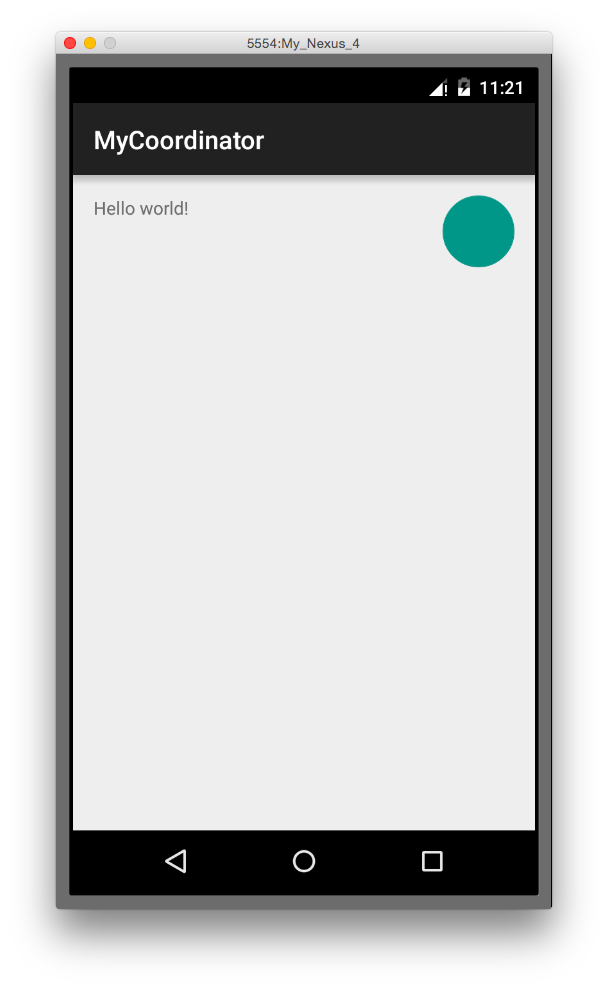
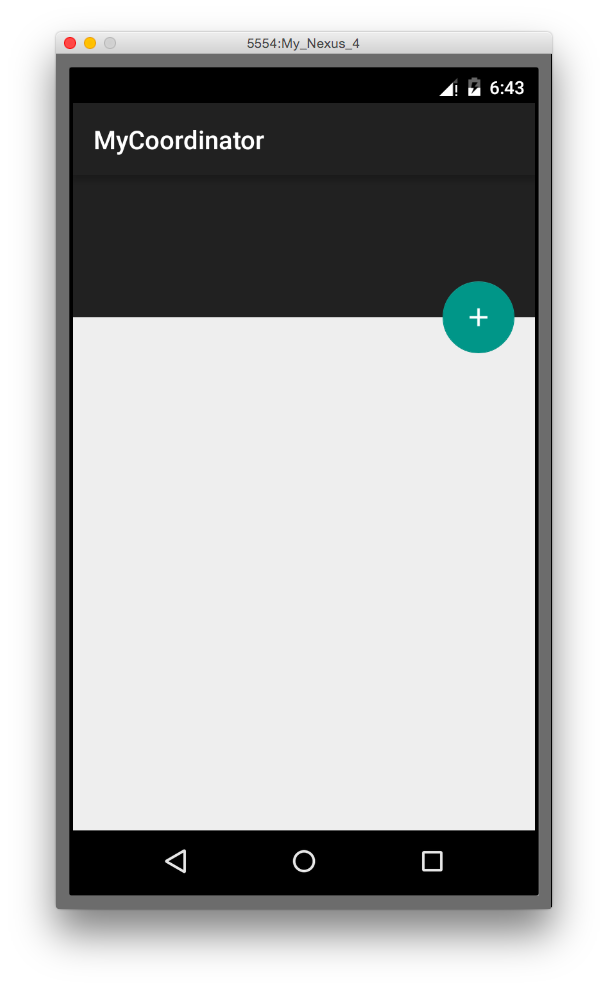
Change layout to CoordinatorLayout > AppBarLayout > CollapsingToolbarLayout

Changed region(s): [[0.0938, 0.1517, 0.9062, 0.364], [0.7188, 0.0607, 0.8438, 0.1213]]

diff --git a/MyCoordinator/app/src/main/java/de/afarber/mycoordinator/MainActivity.java b/MyCoordinator/app/src/main/java/de/afarber/mycoordinator/MainActivity.java
@@ -1,12 +1,11 @@
 package de.afarber.mycoordinator;
 
-import android.support.v7.app.ActionBarActivity;
 import android.os.Bundle;
+import android.support.v7.app.AppCompatActivity;
 import android.view.Menu;
-import android.view.MenuItem;
 
 
-public class MainActivity extends ActionBarActivity {
+public class MainActivity extends AppCompatActivity {
 
     @Override
     protected void onCreate(Bundle savedInstanceState) {
